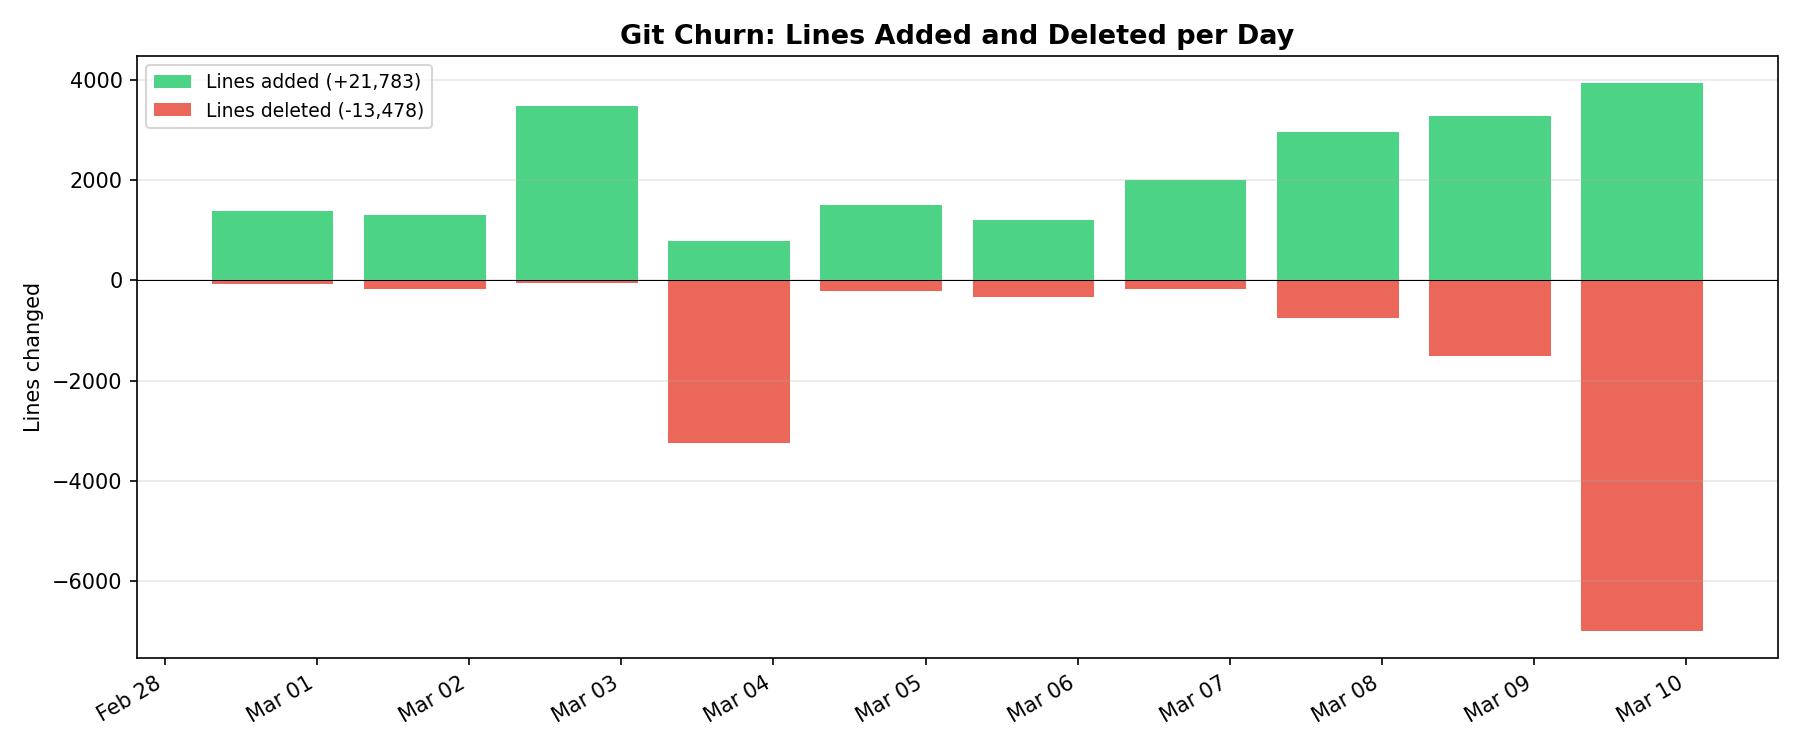
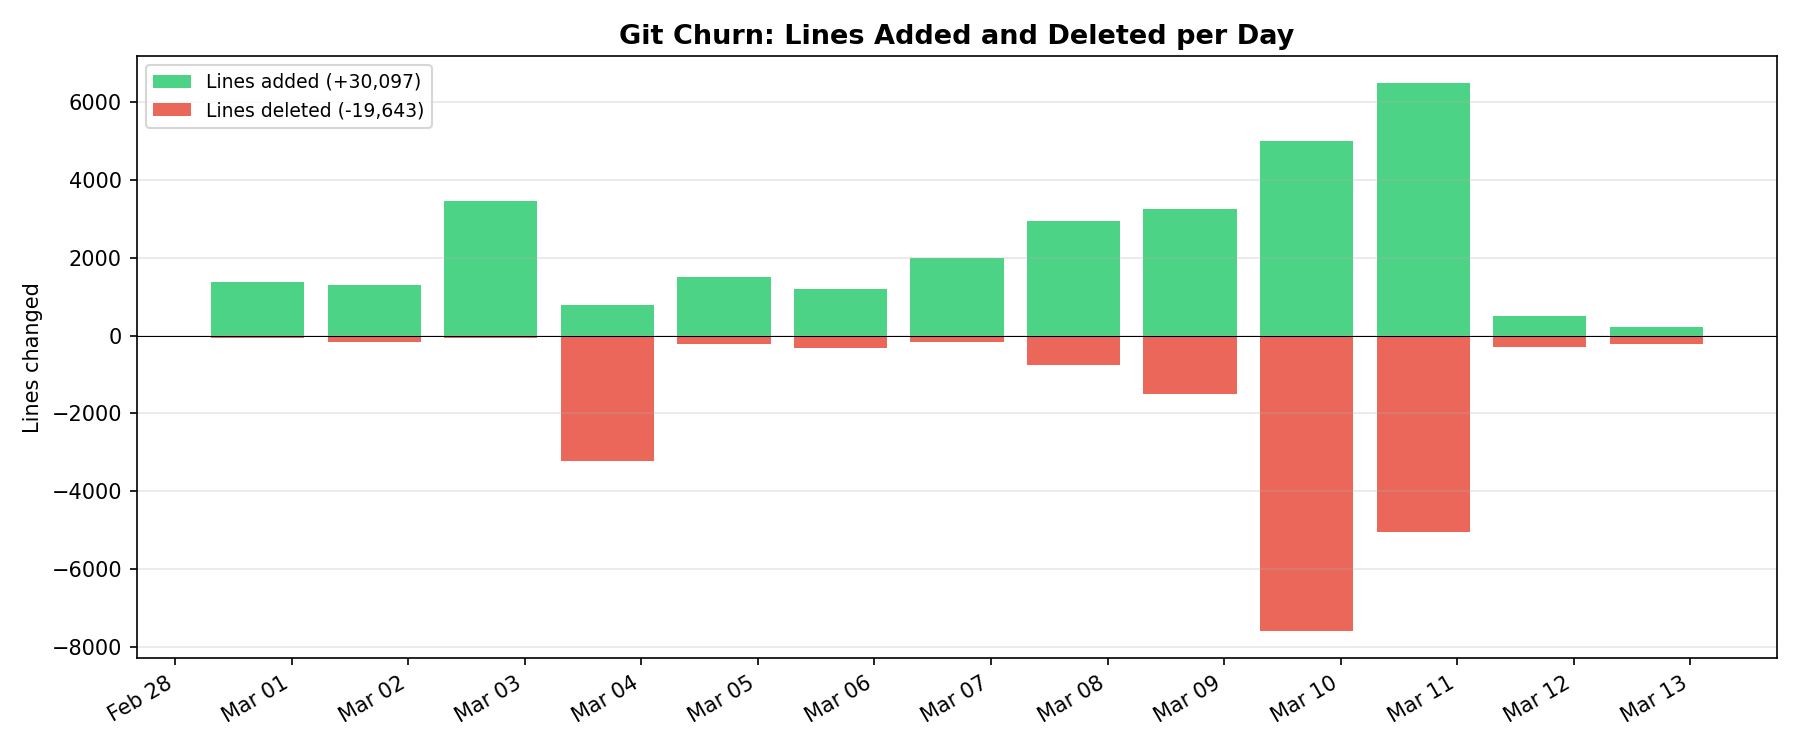
visualize tool use

diff --git a/scripts/tool_use_viz.py b/scripts/tool_use_viz.py
@@ -1,0 +1,220 @@
+#!/usr/bin/env python3
+"""Visualize Claude Code tool usage over the project."""
+
+import json
+import glob
+import os
+from collections import Counter, defaultdict
+from datetime import datetime, timedelta, timezone
+
+REPO = os.path.dirname(os.path.dirname(os.path.abspath(__file__)))
+SESSION_DIRS = [
+    os.path.expanduser("~/.claude/projects/-Users-vasil-Github-aristotle/"),
+    os.path.expanduser("~/.claude/projects/-home-vilin-aristotle/"),
+    "/tmp/americano-sessions/",  # from university machine
+]
+OUT_PNG = os.path.join(REPO, "scripts", "tool_use.png")
+
+PT = timezone(timedelta(hours=-7))  # PDT
+
+
+def parse_ts(s):
+    return datetime.fromisoformat(s.replace("Z", "+00:00")).astimezone(PT)
+
+
+# Display groups: collapse MCP tools into categories
+def tool_group(name):
+    if name.startswith("mcp__lean-lsp__"):
+        return "Lean LSP"
+    if name.startswith("mcp__lean-lsp-mcp__"):
+        return "Lean LSP"
+    if name.startswith("mcp__axle__"):
+        return "Axle"
+    if name.startswith("mcp__gemini"):
+        return "Gemini"
+    return name
+
+
+def load_tool_data():
+    files = []
+    for d in SESSION_DIRS:
+        files.extend(glob.glob(os.path.join(d, "*.jsonl")))
+    files = sorted(files)
+
+    tool_counts = Counter()       # tool_name -> total count
+    tool_by_day = defaultdict(Counter)  # date -> tool_group -> count
+    tool_timestamps = []          # (timestamp, tool_name)
+
+    for f in files:
+        for line in open(f):
+            line = line.strip()
+            if not line:
+                continue
+            try:
+                d = json.loads(line)
+            except Exception:
+                continue
+            if d.get("type") != "assistant":
+                continue
+            ts = d.get("timestamp")
+            if not ts:
+                continue
+            t = parse_ts(ts)
+            content = d.get("message", {}).get("content", [])
+            if not isinstance(content, list):
+                continue
+            for block in content:
+                if isinstance(block, dict) and block.get("type") == "tool_use":
+                    name = block.get("name", "unknown")
+                    tool_counts[name] += 1
+                    tool_timestamps.append((t, name))
+                    day = t.date()
+                    tool_by_day[day][tool_group(name)] += 1
+
+    tool_timestamps.sort(key=lambda x: x[0])
+    return tool_counts, tool_by_day, tool_timestamps
+
+
+def main():
+    tool_counts, tool_by_day, tool_timestamps = load_tool_data()
+
+    total = sum(tool_counts.values())
+    print(f"Total tool calls: {total:,}")
+    print(f"\nBy tool:")
+    for name, count in tool_counts.most_common():
+        print(f"  {count:6d}  {name}")
+
+    # Group stats
+    grouped = Counter()
+    for name, count in tool_counts.items():
+        grouped[tool_group(name)] += count
+    print(f"\nBy group:")
+    for name, count in grouped.most_common():
+        print(f"  {count:6d}  {name}")
+
+    import matplotlib
+    matplotlib.use("Agg")
+    import matplotlib.pyplot as plt
+    import matplotlib.dates as mdates
+    import numpy as np
+
+    fig, axes = plt.subplots(2, 2, figsize=(16, 10))
+
+    # ── Top-left: bar chart of tool counts (grouped) ──
+    ax1 = axes[0, 0]
+    names = [n for n, _ in grouped.most_common()]
+    counts = [c for _, c in grouped.most_common()]
+
+    colors_map = {
+        "Bash": "#e74c3c",
+        "Read": "#3498db",
+        "Edit": "#2ecc71",
+        "Write": "#9b59b6",
+        "Grep": "#f39c12",
+        "Glob": "#1abc9c",
+        "Agent": "#e67e22",
+        "Lean LSP": "#34495e",
+        "Skill": "#d35400",
+        "ToolSearch": "#7f8c8d",
+        "Axle": "#2c3e50",
+        "Gemini": "#8e44ad",
+    }
+    bar_colors = [colors_map.get(n, "#95a5a6") for n in names]
+
+    bars = ax1.barh(range(len(names)), counts, color=bar_colors, alpha=0.85)
+    ax1.set_yticks(range(len(names)))
+    ax1.set_yticklabels(names, fontsize=9)
+    ax1.invert_yaxis()
+    ax1.set_xlabel("Total calls")
+    ax1.set_title(f"Tool Usage by Category ({total:,} total)")
+    ax1.grid(True, axis="x", alpha=0.3)
+
+    for bar, count in zip(bars, counts):
+        ax1.text(bar.get_width() + total * 0.005, bar.get_y() + bar.get_height() / 2,
+                 f"{count:,}", va="center", fontsize=8, fontweight="bold")
+
+    # ── Top-right: stacked bar chart over time ──
+    ax2 = axes[0, 1]
+
+    all_days = sorted(tool_by_day.keys())
+    # Pick top groups for stacking
+    top_groups = [n for n, _ in grouped.most_common(8)]
+    other_label = "Other"
+
+    stacked_data = {}
+    for g in top_groups:
+        stacked_data[g] = [tool_by_day[day].get(g, 0) for day in all_days]
+    # Other
+    other_vals = []
+    for day in all_days:
+        other = sum(c for g, c in tool_by_day[day].items() if g not in top_groups)
+        other_vals.append(other)
+    if sum(other_vals) > 0:
+        stacked_data[other_label] = other_vals
+        top_groups.append(other_label)
+
+    bottom = np.zeros(len(all_days))
+    for g in top_groups:
+        vals = np.array(stacked_data[g])
+        color = colors_map.get(g, "#bdc3c7")
+        ax2.bar(all_days, vals, bottom=bottom, label=g, color=color, alpha=0.85, width=0.8)
+        bottom += vals
+
+    ax2.set_ylabel("Tool calls per day")
+    ax2.set_title("Tool Usage Over Time")
+    ax2.xaxis.set_major_formatter(mdates.DateFormatter("%b %d"))
+    ax2.xaxis.set_major_locator(mdates.DayLocator(interval=1))
+    ax2.legend(fontsize=7, loc="upper left", ncol=2)
+    ax2.grid(True, axis="y", alpha=0.3)
+    fig.autofmt_xdate()
+
+    # ── Bottom-left: cumulative tool calls over time ──
+    ax3 = axes[1, 0]
+
+    timestamps = [t for t, _ in tool_timestamps]
+    cumulative = np.arange(1, len(timestamps) + 1)
+    ax3.plot(timestamps, cumulative, color="#2563eb", linewidth=2)
+    ax3.fill_between(timestamps, cumulative, alpha=0.1, color="#2563eb")
+    ax3.set_ylabel("Cumulative tool calls")
+    ax3.set_title(f"Cumulative Tool Usage ({total:,} total)")
+    ax3.xaxis.set_major_formatter(mdates.DateFormatter("%b %d", tz=PT))
+    ax3.xaxis.set_major_locator(mdates.DayLocator(interval=1, tz=PT))
+    ax3.grid(True, alpha=0.3)
+
+    # ── Bottom-right: detailed Lean LSP breakdown ──
+    ax4 = axes[1, 1]
+
+    lean_tools = Counter()
+    for name, count in tool_counts.items():
+        if name.startswith("mcp__lean-lsp"):
+            short = name.split("__")[-1]
+            lean_tools[short] += count
+
+    if lean_tools:
+        lean_names = [n for n, _ in lean_tools.most_common()]
+        lean_counts = [c for _, c in lean_tools.most_common()]
+        lean_colors = plt.cm.viridis(np.linspace(0.2, 0.9, len(lean_names)))
+        bars4 = ax4.barh(range(len(lean_names)), lean_counts, color=lean_colors, alpha=0.85)
+        ax4.set_yticks(range(len(lean_names)))
+        ax4.set_yticklabels(lean_names, fontsize=8)
+        ax4.invert_yaxis()
+        ax4.set_xlabel("Total calls")
+        ax4.set_title(f"Lean LSP Tool Breakdown ({sum(lean_counts):,} total)")
+        ax4.grid(True, axis="x", alpha=0.3)
+        for bar, count in zip(bars4, lean_counts):
+            ax4.text(bar.get_width() + max(lean_counts) * 0.01,
+                     bar.get_y() + bar.get_height() / 2,
+                     f"{count}", va="center", fontsize=7)
+
+    fig.suptitle(
+        f"Claude Code Tool Usage: {total:,} Calls Across {len(tool_counts)} Tools "
+        f"over {len(all_days)} Days",
+        fontsize=13, fontweight="bold", y=1.01,
+    )
+    fig.tight_layout()
+    fig.savefig(OUT_PNG, dpi=150, bbox_inches="tight")
+    print(f"\nWrote {OUT_PNG}")
+
+
+if __name__ == "__main__":
+    main()

diff --git a/scripts/loc_history.py b/scripts/loc_history.py
@@ -20,6 +20,8 @@ EVENTS = [
     ("20d0f4b0fe", "Main theorem:\n0 sorry\u2019s", 40),
     ("96f389e62f", "Dead code removal\n(\u22123K lines)", 40),
     ("46b87fbc43", "Non-vacuousness\ncomplete", -70),
+    ("5b62d21624", "Relax C\u221e \u2192 finite\norder differentiability", -70),
+    ("62610d06ee", "Derive log growth\nbound via MVT", 40),
 ]
 
 # File categories for the breakdown chart.
